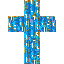
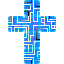
dance yay

diff --git a/main.py b/main.py
@@ -3,6 +3,7 @@ from time import *
 from math import *
 
 ANIM= True
+DANCE= True
 frame=0# int #set manually if anim is off
 t= 0 #float seconds
 
@@ -145,7 +146,9 @@ glViewport(0,0,w,h)
 
 import viewmat
 view= viewmat.state()
-view.m[1]= -.2#initial rotation
+#view.m[1]= -.2#initial rotation
+view.m[0]= 3/8
+view.m[1]= 1/4.5
 
 def render():
 	glClearColor(0,0,0,0)
@@ -154,7 +157,7 @@ def render():
 	glUseProgram(prog_inner)
 
 	#dance
-	if ANIM:
+	if ANIM and DANCE:
 		view.m[0]+= sin(t* 6  )*.008  \
 				   +sin(t*  .6)*.005
 		view.m[1]+= cos(t*14  )*.015
@@ -168,7 +171,7 @@ def render():
 	glUniform3f(3, 0.05,0.05,0.05)#ambient
 	glUniform3f(4, 0.1 ,0.6 ,1.  )#reflective
 	glUniform3f(5, 0.7 , .85,0.95)#albedo
-	glUniform1f(6, .1 ) #rough
+	glUniform1f(6, .5 ) #rough
 	glUniform1f(7, 1.2) #IOR
 	glUniform1f(8, .4) #fresnel magnitude
 
@@ -184,21 +187,21 @@ def render():
 	mesh()
 
 	glUseProgram(prog_outer)
-	vm= view.do(w,h)#outer cube matrix
-	mmv[ 0]*= 1.75#fuck god forgive me 
-	mmv[ 1]*= 1.75
-	mmv[ 2]*= 1.75
-	mmv[ 4]*= 1.75
-	mmv[ 5]*= 1.75
-	mmv[ 6]*= 1.75
-	mmv[ 8]*= 1.75
-	mmv[ 9]*= 1.75
-	mmv[10]*= 1.75
+	vm= view.do(w,h)#outer cube
+	mmv[ 0]*= 1.5#fuck god forgive me 
+	mmv[ 1]*= 1.5
+	mmv[ 2]*= 1.5
+	mmv[ 4]*= 1.5
+	mmv[ 5]*= 1.5
+	mmv[ 6]*= 1.5
+	mmv[ 8]*= 1.5
+	mmv[ 9]*= 1.5
+	mmv[10]*= 1.5
 	glUniformMatrix4fv(0,1,True,mmv)
 	glUniformMatrix4fv(1,1,True,mp)
 	glUniform1f(2, t) #t
 	glUniform3f(3, 0.05,0.05,0.05)#ambient
-	glUniform3f(4, 0.1 ,0.6 ,1.  )#reflective
+	glUniform3f(4, 0.2 ,0.2 ,.2  )#reflective
 	glUniform3f(5, 0.7 , .85,0.95)#albedo
 	glUniform1f(6, .1 ) #rough
 	glUniform1f(7, 1.2) #IOR

diff --git a/viewmat.py b/viewmat.py
@@ -46,8 +46,8 @@ def do(state,w,h):
 
     x= m[0]*6.28
     y= m[1]*3.14
-    v= matmul(roty(y),rotx(x))*exp(z*.25)
-    fov= .2
+    v= matmul(roty(-y),rotx(x))*exp(z*.25)
+    fov= .3
     p= array([
         [asp,0,  0, 0],
         [0,1,  0, 0],

diff --git a/com.py b/com.py
@@ -40,7 +40,6 @@ from enum import unique
 from math import pi  as PI
 from math import tau as TAU
 PHI= (1+5**.5)/2
-TAU= 2*PI
 from math import exp
 from math import log2
 
